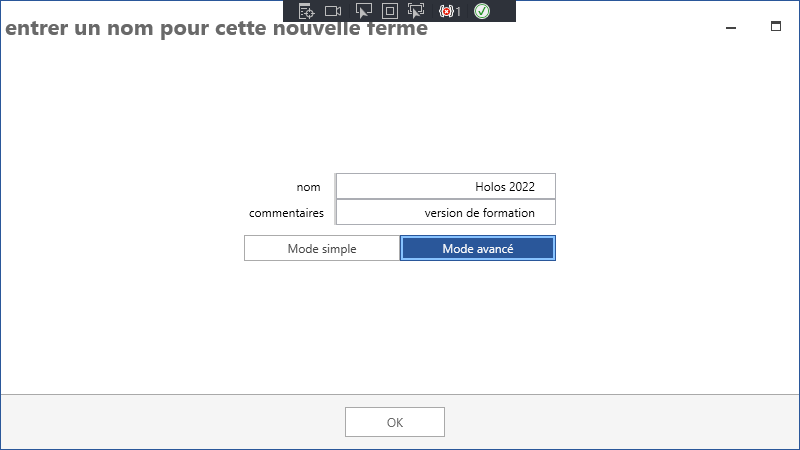
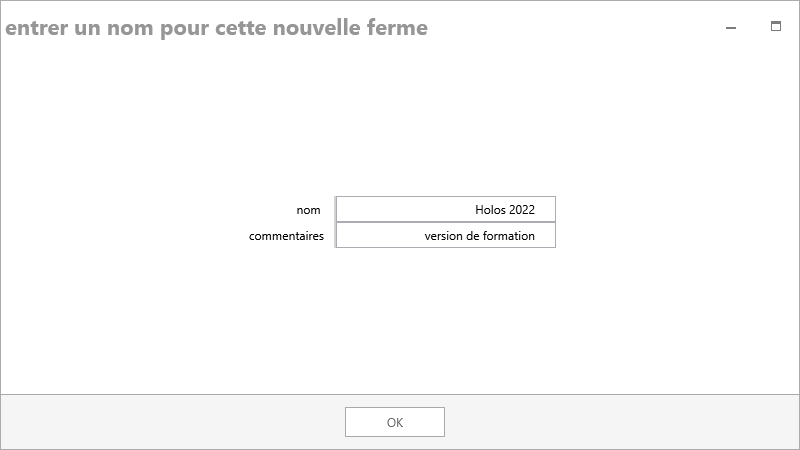
Remove advanced mode reference from training guide

diff --git a/H.Content/Documentation/Training/Holos_4_Training_Guide-fr.md b/H.Content/Documentation/Training/Holos_4_Training_Guide-fr.md
@@ -23,8 +23,8 @@ Aux fins de cette formation, nous allons créer une ferme avec un système annue
 
 Lancez Holos en double-cliquant sur l’icône Holos qui se trouve sur le bureau. S’il n’y a pas de fermes sauvegardées dans le système, Holos créera une nouvelle ferme et demandera à l’utilisateur un nom de ferme et un commentaire facultatif. S’il y a déjà une ferme enregistrée dans le système, Holos demandera à l’utilisateur d’ouvrir la ferme existante ou de créer une nouvelle ferme.
 
-Entrez « Holos 2022 » comme nom de ferme et « **version de formation** » comme « commentaire ». Assurez-vous de cliquer sur le bouton « **Mode avancé** » pour que d’autres fonctions et fonctionnalités soient disponibles. Cliquez sur « Ok » pour passer à l’étape suivante.
-Assurez-vous de sélectionner « Mesure » comme unité de type de mesure, puis cliquez sur le bouton « Suivant » au bas de l’écran.
+Entrez "Holos 2022" comme nom de ferme et "**version de formation**" comme "**commentaire**". Cliquez sur "OK" pour passer à l'écran suivant
+Assurez-vous de sélectionner « Métrique » comme unité de type de mesure, puis cliquez sur le bouton « Suivant » au bas de l’écran.
 
 <br>
 <p align="center">
